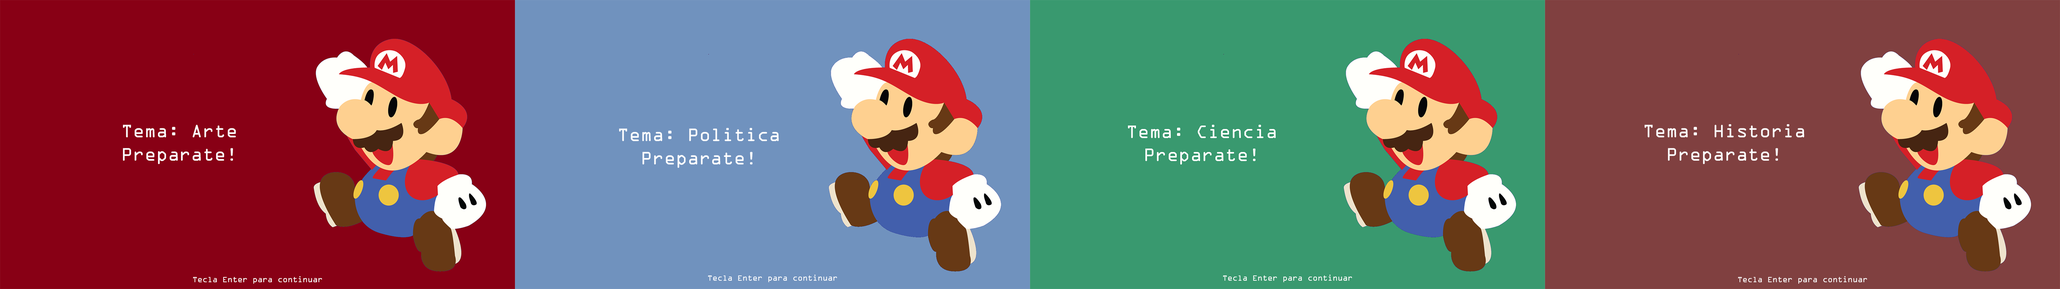
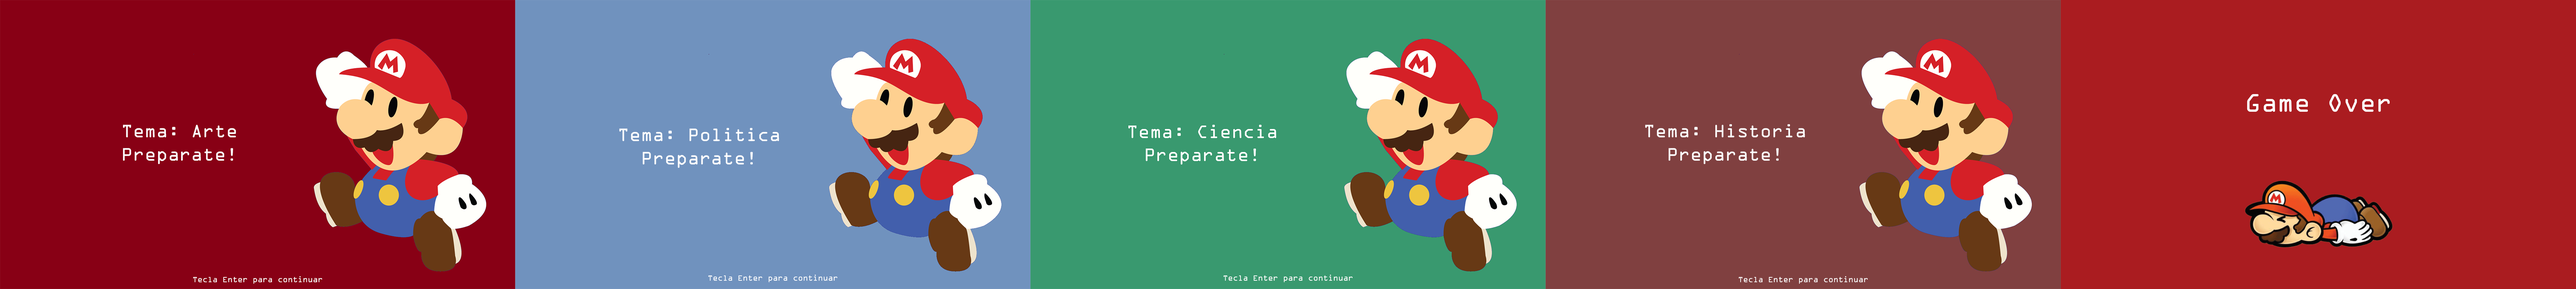
game over puesto

diff --git a/Ruleta.cpp b/Ruleta.cpp
@@ -64,7 +64,7 @@ void Ruleta::initTexture()
 		cerr << "ERROR::COULDN'T LOAD THE NOTIFICATION TEXTURE" << endl;
 	
 	notificationSprt.setTexture(notificationTxt);
-
+	gameOverSprt.setTexture(notificationTxt);
 
 	if(!heartTxt.loadFromFile("assets/img/textures/hardcoreHeart2.png"))
 		cerr << "ERROR::COULDN'T LOAD THE HEART TEXTURE" << endl;
@@ -354,7 +354,7 @@ void Ruleta::decreaseLives()
 
 void Ruleta::checkLimitTime()
 {
-	if (this->timeLeft.getElapsedTime().asSeconds() > 180)
+	if (this->timeLeft.getElapsedTime().asSeconds() > 1)
 		lives = 0;
 }
 
@@ -363,6 +363,8 @@ void Ruleta::checkLives()
 	if (lives == 0) {
 		// poner bg que diga que perdio el juego
 		cout << "El juego termino" << endl;
+		gameOverSprt.setTextureRect(sf::IntRect(5464, 0, 1366, 768));
+		window.draw(gameOverSprt);
 	}
 }
 

diff --git a/Ruleta.h b/Ruleta.h
@@ -106,6 +106,7 @@ class Ruleta
 									bgSprite,
 									btnSpaceSprt,
 			                        notificationSprt,
+									gameOverSprt,
 									boxSprites[4],
 									hearts[3];
 		
